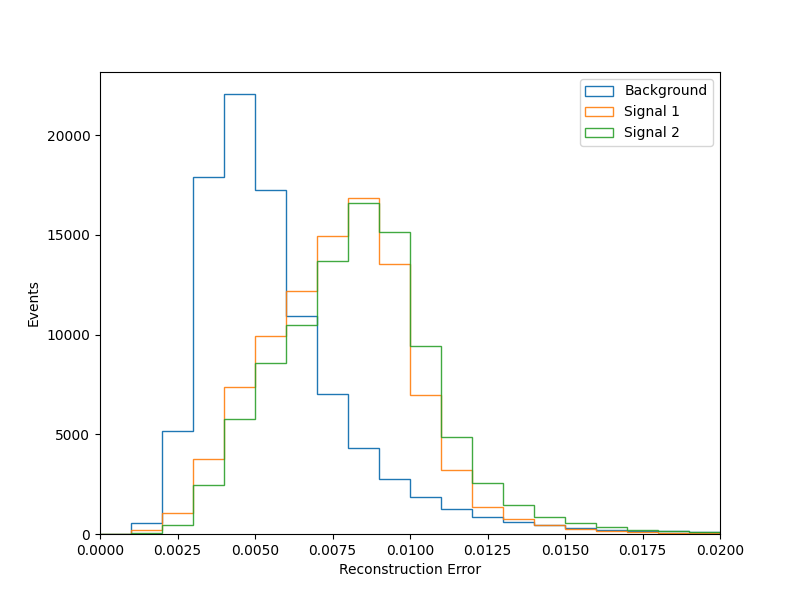
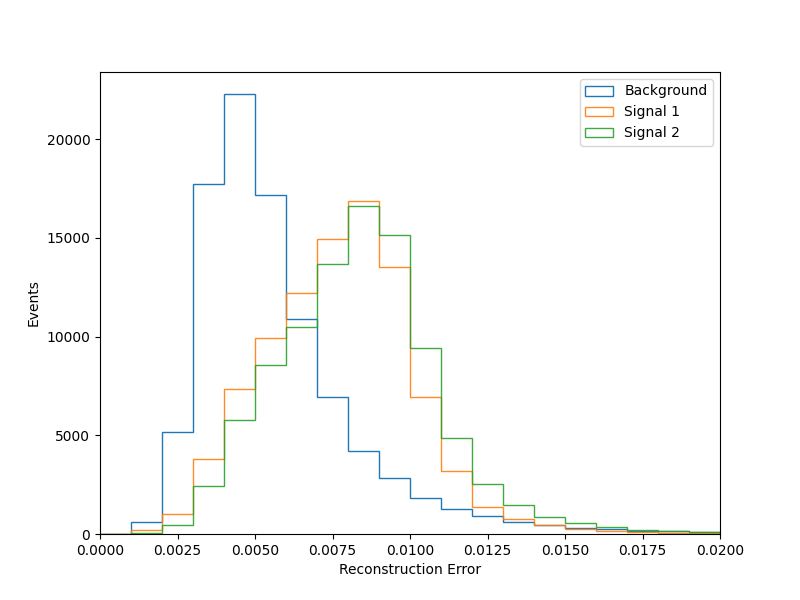
Testing with minmax scaling and 84, 14 layer dimensions

diff --git a/test.py b/test.py
@@ -131,12 +131,12 @@ loss_sig2_total = loss_sig2.sum(axis=1) / 42
 # Plot Total Reconstruction Error
 nbins = 20
 fig, axes = plt.subplots(figsize=(8,6))
-axes.hist([loss_bkg_total], nbins, range=(0, 0.6), density=0, histtype='step', label=['Background'], stacked=True, alpha=1)
-axes.hist([loss_sig1_total], nbins, range=(0, 0.6), density=0, histtype='step', label=['Signal 1'], stacked=True, alpha=0.9)
-axes.hist([loss_sig2_total], nbins, range=(0, 0.6), density=0, histtype='step', label=['Signal 2'], stacked=True, alpha=0.9)
+axes.hist([loss_bkg_total], nbins, range=(0, 0.02), density=0, histtype='step', label=['Background'], stacked=True, alpha=1)
+axes.hist([loss_sig1_total], nbins, range=(0, 0.02), density=0, histtype='step', label=['Signal 1'], stacked=True, alpha=0.9)
+axes.hist([loss_sig2_total], nbins, range=(0, 0.02), density=0, histtype='step', label=['Signal 2'], stacked=True, alpha=0.9)
 axes.set_xlabel(r"Reconstruction Error")
 axes.set_ylabel("Events")
-axes.set_xlim(0, 0.6)
+axes.set_xlim(0, 0.02)
 axes.legend(loc='upper right')
 fig.savefig(f"figs/testing/reconstruction_error_{scale}_{mid_dim}_{latent_dim}.png")
 
@@ -224,15 +224,3 @@ axes.set_xlabel(r"$m_{jet_1•jet_2}$")
 axes.set_ylabel("Events")
 axes.legend()
 fig.savefig(f"figs/testing/normalised_mass_dist_{scale}_{mid_dim}_{latent_dim}.png")
-
-
-############################################ Reconstruction Error vs Mass Distribution  ##############################################
-
-fig, axes = plt.subplots(figsize=(8,6))
-axes.scatter(mjj_bkg, loss_bkg_all_total, alpha=1)
-axes.set_xlabel(r"$m_{jet_1•jet_2}$")
-axes.set_ylabel("Reconstruction Error")
-axes.set_title(f"Distribution for {scale}, m={mid_dim}, l={latent_dim}")
-axes.set_yscale("log")
-# axes.legend()
-fig.savefig(f"figs/testing/reco_mass_{scale}_{mid_dim}_{latent_dim}.png")

diff --git a/autoencoder.py b/autoencoder.py
@@ -45,7 +45,7 @@ class AutoEncoder(nn.Module):
             nn.Linear(latent_dim, mid_dim),
             nn.ReLU(),
             nn.Linear(mid_dim, input_dim),
-            nn.PReLU()
+            nn.ReLU()
         )
 
         # Initialize decoder weights with encoder weights
